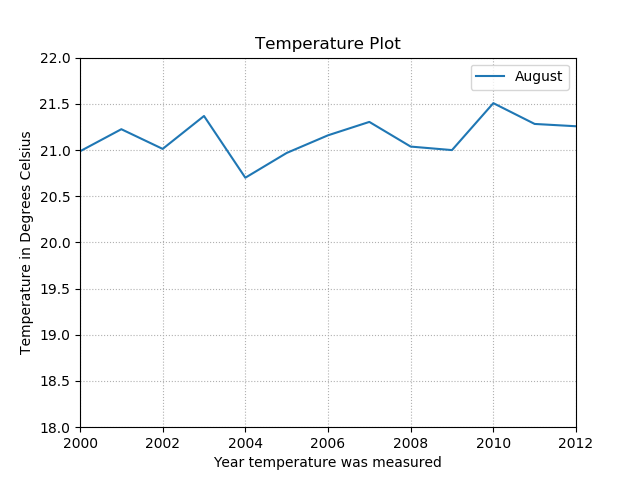
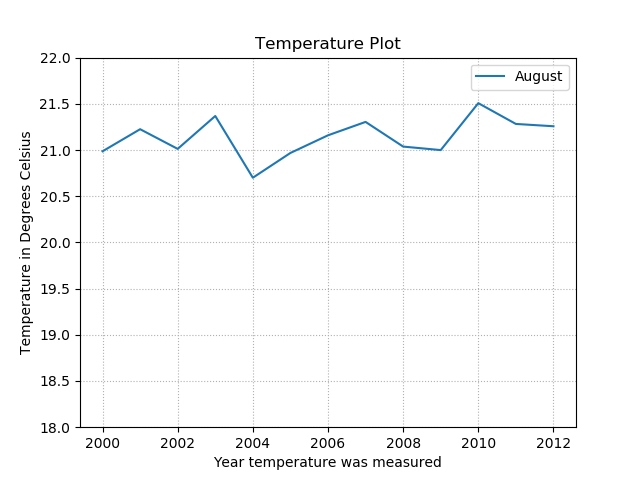
Updated plot_temperature() with the improvments found in plot_CO2

diff --git a/assignment6/temperature_CO2_plotter.py b/assignment6/temperature_CO2_plotter.py
@@ -23,20 +23,23 @@ def plot_temperature(year_range, ymin, ymax, month):
         # Use pandas to read the csv file, separating values on ,
         temp = pd.read_csv('data/temperature.csv', sep=",")
 
-        # Warns the user if the y-values are completely outside of the data set
-        if ymax < temp[month].min():
-            print("WARNING: Your ymax value is less than the lowest temperature value in the data set for " + month)
-            print("The lowest temperature is " + str(temp[month].min()) + " while you provided the ymax " + str(ymax))
-        elif ymin > temp[month].max():
-            print("WARNING: Your ymin value is higher than the highest temperature value in the data set for " + month)
-            print("The highest temperature is " + str(temp[month].max()) + " while you provided the ymin " + str(ymin))
+        # Here I use boolean indexing to extract the parts of the dataframe within the year range only
+        extracted_data_by_year = temp[(temp['Year'] >= year_range[0]) & (temp['Year'] <= year_range[1])]
 
-        plot = temp.plot(
+        # Warns the user if the y-values are completely outside of the data set
+        lowest_temp_value = extracted_data_by_year[month].min()
+        highest_temp_value = extracted_data_by_year[month].max()
+        if ymax < lowest_temp_value:
+            print("WARNING: Your ymax value is less than the lowest temperature value in the data set for " + month)
+            print("The lowest temperature is " + str(lowest_temp_value) + " while you provided the ymax " + str(ymax))
+        elif ymin > highest_temp_value:
+            print("WARNING: Your ymin value is higher than the highest temperature value in the data set for " + month)
+            print("The highest temperature is " + str(highest_temp_value) + " while you provided the ymin " + str(ymin))
+
+        plot = extracted_data_by_year.plot(
             title="Temperature Plot",
             x='Year',                   # Sets the x-axis to be years
-            y=[month],                  # Sets the y-axis to be the temperature for the desired month
-            xlim=(year_range[0],        # xlim=(leftmost_value, rightmost_value)
-                  year_range[1]),
+            y=month,                    # Sets the y-axis to be the temperature for the desired month
             ylim=(ymin, ymax),          # ylim=(bottom_value, top_value)
             grid=True
         )
@@ -71,7 +74,7 @@ def plot_CO2(year_range, ymin, ymax):
         # Use pandas to read the csv file, separating values on ,
         co2_data = pd.read_csv('data/CO2.csv', sep=",")
 
-        # Here I use boolean indexing to extract the parts of the dataframe within the year range only
+        # Again I use boolean indexing to extract the parts of the dataframe within the year range only
         extracted_data_by_year = co2_data[(co2_data['Year'] >= year_range[0]) & (co2_data['Year'] <= year_range[1])]
 
         # Warns the user if the y-values are completely outside of the data set
@@ -95,7 +98,7 @@ def plot_CO2(year_range, ymin, ymax):
         plot.set_ylabel('CO2 level')
         plot.grid(linestyle="dotted")
         plt.savefig("imgs/co2/CO2_levels_{}_{}".format(str(year_range[0]), str(year_range[1])))
-        plt.show()
+        # plt.show()
 
     except FileNotFoundError as e:
         print("Couldn't find the temperature data set")
